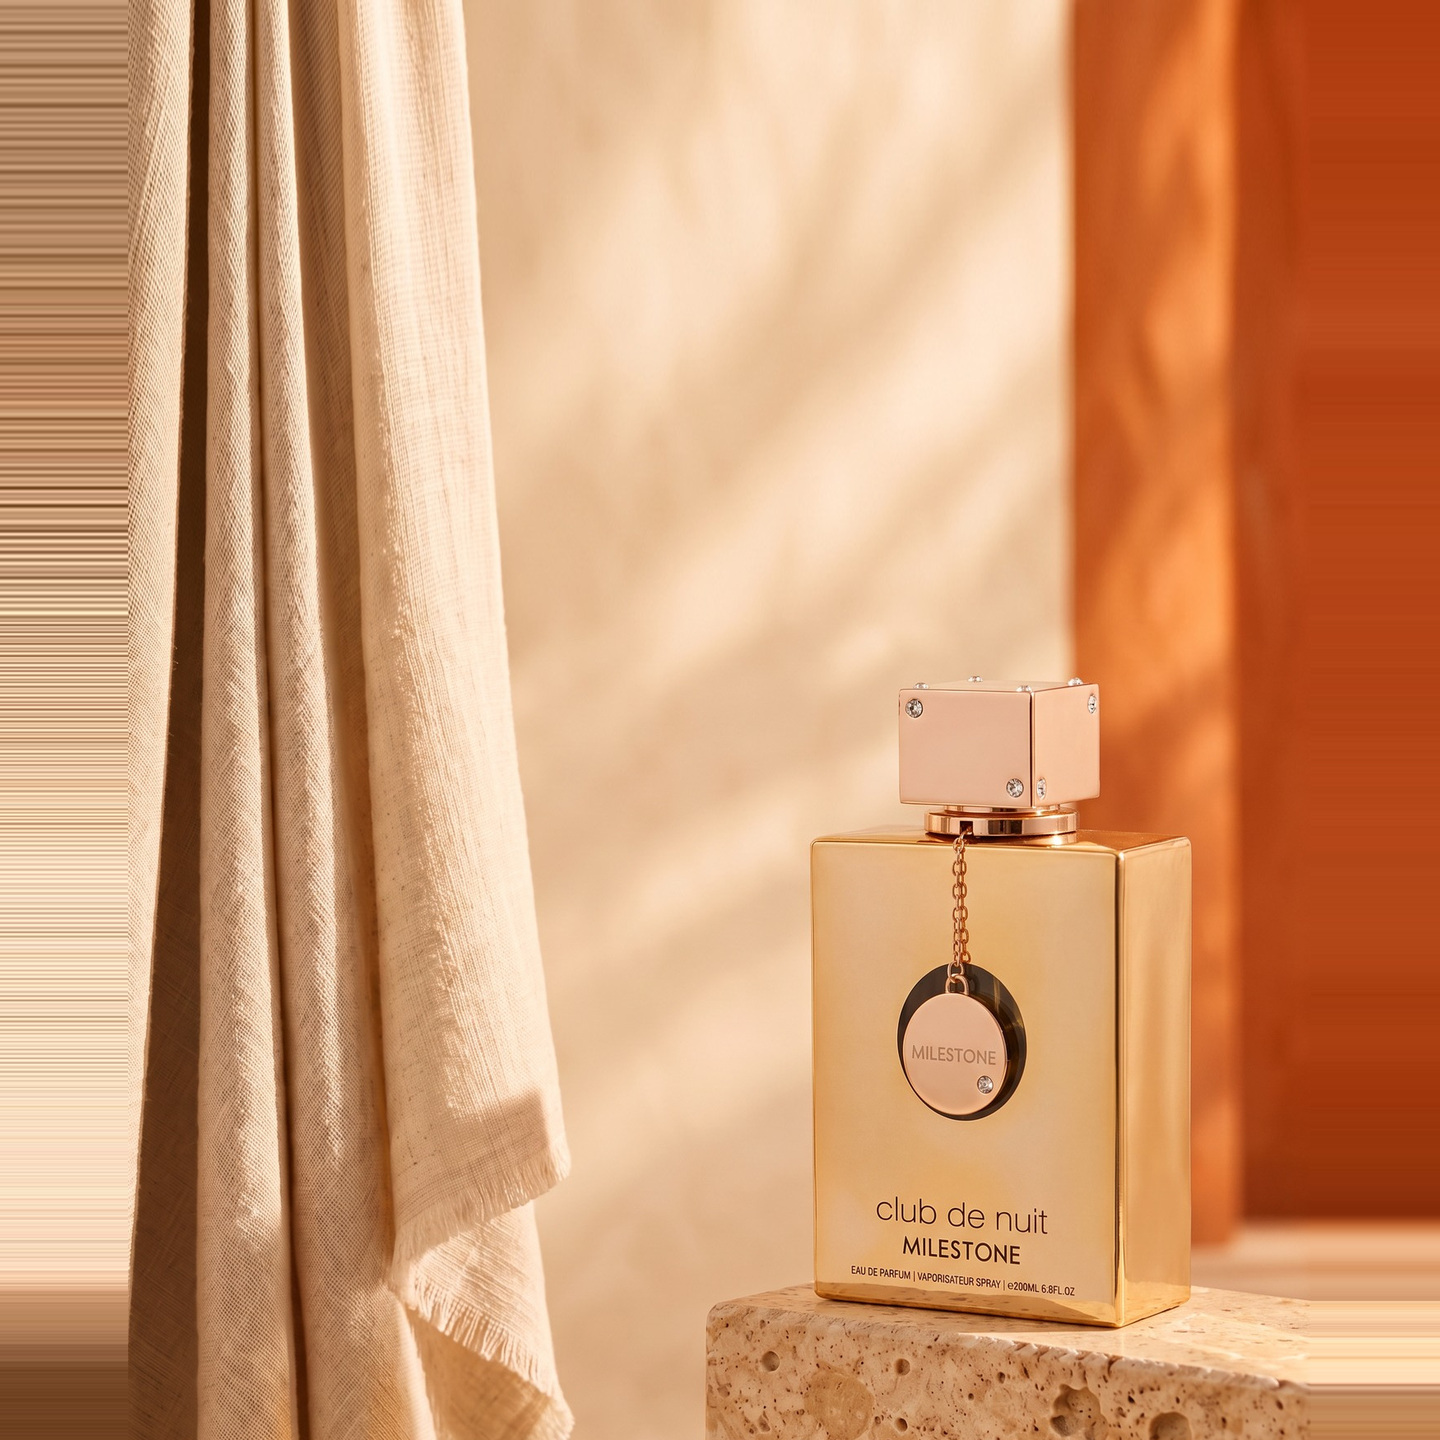
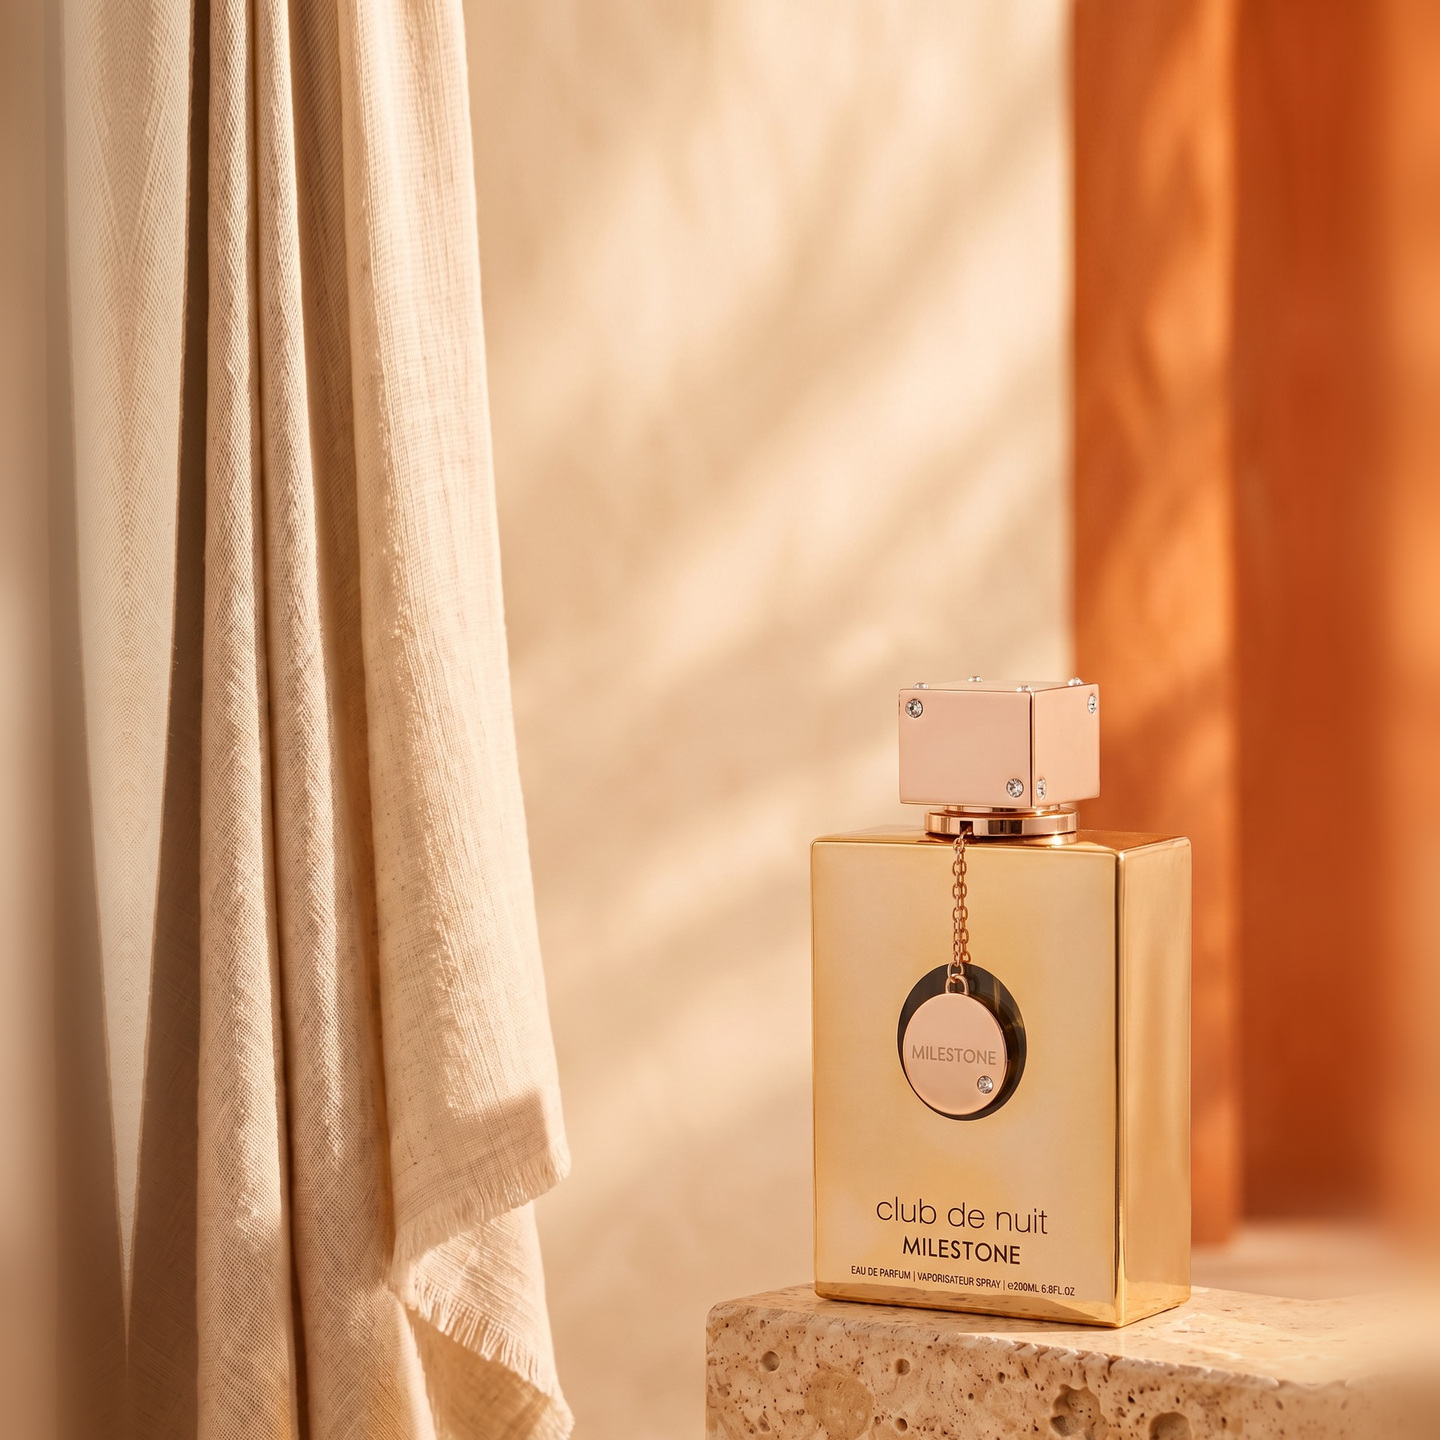
Tuiles de format a refaire en 16:9, et reparation provisoire des bords
Les rayures sur les deux bords venaient de mon script : j'etirais
une colonne d'un pixel sur 127 px. Remplace par un miroir floute,
en attendant le nouveau rendu.

Mesure qui tranche le sujet : le flacon Milestone fait 840 px de
haut dans un carre de 1440, la bande affichee par la boutique en
fait 810. Aucun decalage ne pouvait le faire tenir. Le brief
demande donc les trois images en 1920 x 1080.

Claude-Session: https://claude.ai/code/session_01WRuYh1Ti56z8AmDfbamWmu

Changed region(s): [[0.0, 0.0, 0.125, 1.0], [0.9062, 0.0, 1.0, 0.9688]]

diff --git a/journal/README.md b/journal/README.md
@@ -46,6 +46,74 @@ brancher une clé.
 
 ---
 
+### 14 novembre, 01h20 — Claude (session cloud) — ⚠ LES TROIS TUILES DE FORMAT SONT A REFAIRE EN 16:9
+
+**Daoud a tranché : on arrête de rafistoler les pixels, tu refais les trois
+images, en 16:9.** J'ai pose une reparation provisoire en attendant, elle
+saute des que tu livres.
+
+#### Pourquoi — le chiffre, mesure dans la page
+
+La boutique affiche une image de collection dans un emplacement **16:9**, aux
+deux endroits : la vignette du menu (310 × 174) et le bandeau de la page de
+collection (1150 × 647). Dans les deux cas `object-fit: cover` avec
+**`object-position: 50% 100%`**, donc ancre **en bas**.
+
+> Une image **carree** y perd **43,7 % de sa hauteur**, par le haut.
+> Une image **deja en 16:9** est affichee **entiere**. Rien n'est jamais coupe.
+
+C'est ce qui a tout casse : dans le carre de 1440, le flacon Milestone fait
+**840 px de haut** et la bande visible n'en fait que **810**. Il etait
+30 px trop grand pour tenir, quel que soit le decalage. Aucun recadrage ne
+pouvait le sauver — il fallait changer l'image.
+
+#### Ce qu'il faut livrer
+
+**Trois images en 1920 × 1080**, qui remplacent les fichiers existants :
+
+| Fichier | Parfum |
+|---|---|
+| `scenes/formats/petitformat.jpg` | **Ayat Creek Dubai — 30 ml** |
+| `scenes/formats/standard.jpg` | **Lattafa Khamrah — 100 ml** |
+| `scenes/formats/grandformat.jpg` | **Armaf Club de Nuit Milestone — 200 ml** |
+
+Meme scene que tes carres, qui etaient bons : mur de platre creme, bandes
+d'ombre longues, drape de lin sable sur le tiers gauche, bloc de travertin
+qui entre par le bas a droite, flacon pose dessus, lumiere rasante venue de
+la gauche, 85 mm f/2.8.
+
+#### Les deux regles qui decident de la reussite
+
+1. **La regle du trio, inchangee.** Un seul prompt de base, on ne change que
+   le paragraphe du flacon. Meme pierre, meme camera, meme lumiere, meme
+   drape sur les trois. C'est la taille du flacon qui doit sauter aux yeux,
+   et rien d'autre.
+2. **Le flacon tient tout entier dans le cadre, avec de la marge.** Dans un
+   cadre de 1080 px de haut, le **Milestone ne doit pas depasser 700 px**,
+   soit les deux tiers de la hauteur, bouchon compris. Le format paysage
+   laisse de la place : recule la camera, ne remplis pas la hauteur.
+   Les deux autres suivent la meme camera, donc ils seront naturellement
+   plus petits — c'est tout le propos.
+
+Le reste ne change pas : aucun texte, surfaces nues hormis l'etiquette du
+flacon, jamais d'interdiction dans le prompt, nommage en minuscules sans
+tiret ni underscore.
+
+**Commence par le Grand format.** C'est le seul difficile : si le Milestone
+tient, les deux autres tiennent. Montre-le a Daoud avant de lancer les deux
+autres.
+
+#### Ce que j'ai mis en attendant
+
+Les trois carres actuels sont une **reparation**, pas une livraison : contenu
+reduit a 82,3 % ancre en bas, bords rajoutes en miroir puis flous. Les
+rayures que Daoud avait vues venaient de mon script — j'etirais une colonne
+d'un seul pixel sur 127 px de large. C'etait moi, pas toi.
+
+**Bloque sur.** Rien.
+
+**Daoud doit.** Rien pour ces images.
+
 ### 14 novembre — Claude Code
 
 **Fait.** Tes deux images d'origine sont dans `scenes/origines/`, en 1440 × 1440, **validées par Daoud** :
